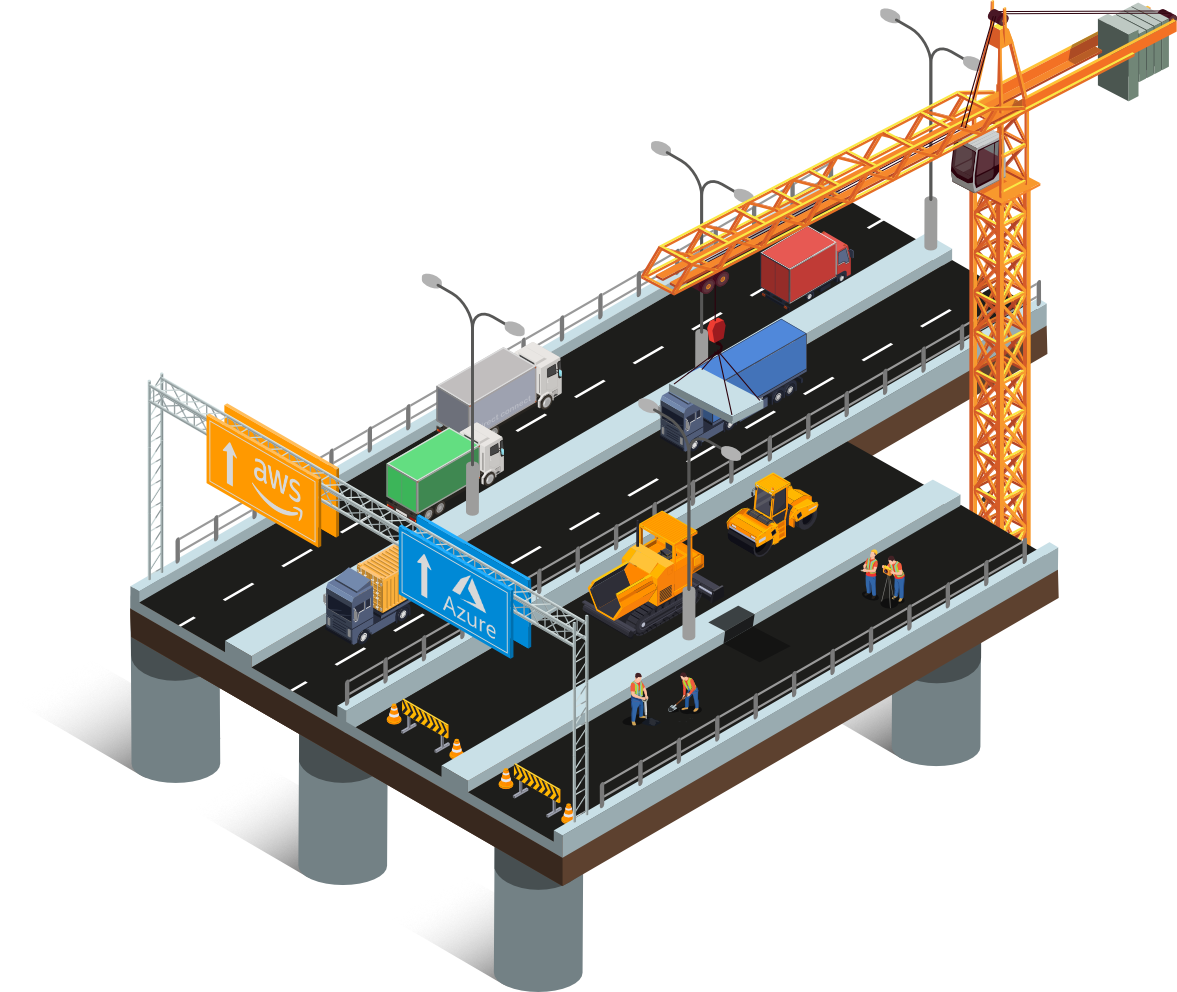
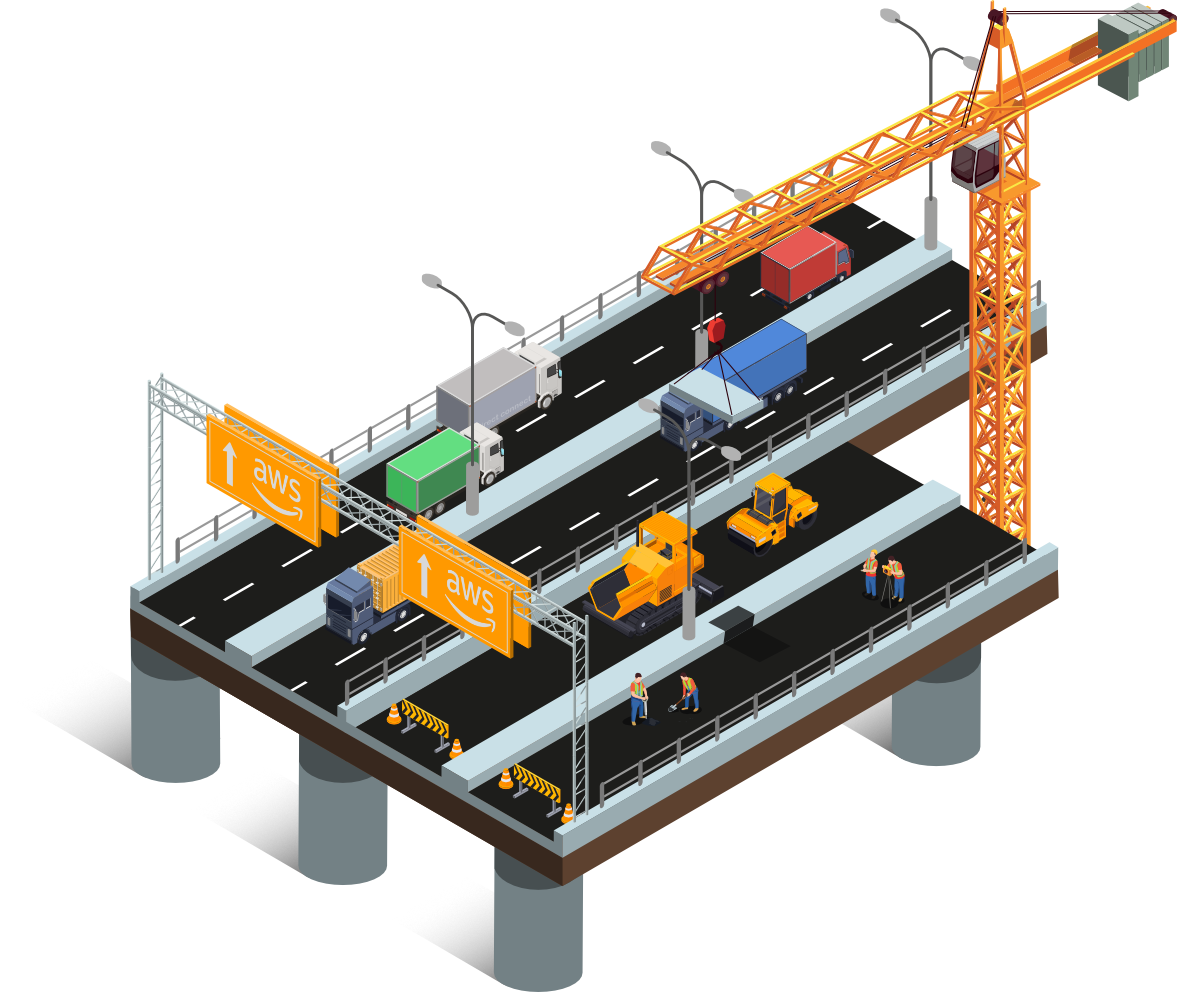
feat: removing obsolete content (#25)
* feat: removing obsolete content and replacing image

Changed region(s): [[0.3364, 0.5, 0.4588, 0.6562]]

diff --git a/themes/vex-hugo/layouts/services/list.html b/themes/vex-hugo/layouts/services/list.html
@@ -104,9 +104,6 @@
           {{ if .title_aws }}
           <h4 class="subheading mt--20 color-aws">{{ $.Page.RenderString .title_aws }}</h4>
           {{ end }}
-          {{ if .title_azure }}
-          <h4 class="subheading mt--20 color-azure">{{ $.Page.RenderString .title_azure }}</h4>
-          {{ end }}
           <p class="md">{{ $.Page.RenderString .content }}</p>
           {{ if .button.enable }}
           {{ with .button }}
@@ -125,9 +122,6 @@
           {{ end }}
           {{ if .title_aws }}
           <h4 class="subheading mt--20 color-aws">{{ $.Page.RenderString .title_aws }}</h4>
-          {{ end }}
-          {{ if .title_azure }}
-          <h4 class="subheading mt--20 color-azure">{{ $.Page.RenderString .title_azure }}</h4>
           {{ end }}
           <p class="md">{{ $.Page.RenderString .content }}</p>
           {{ if .button.enable }}

diff --git a/themes/vex-hugo/layouts/solutions/list.html b/themes/vex-hugo/layouts/solutions/list.html
@@ -88,9 +88,6 @@
                     {{ if .title_aws }}
                     <h4 class="subheading mt--20 color-aws">{{ $.Page.RenderString .title_aws }}</h4>
                     {{ end }}
-                    {{ if .title_azure }}
-                    <h4 class="subheading mt--20 color-azure">{{ $.Page.RenderString .title_azure }}</h4>
-                    {{ end }}
                     <p class="md">{{ $.Page.RenderString .content }}</p>
                     {{ if .button.enable }}
                     {{ with .button }}

diff --git a/themes/vex-hugo/assets/scss/_customize.scss b/themes/vex-hugo/assets/scss/_customize.scss
@@ -121,10 +121,6 @@ textarea.form-control {
     color: #FF9900 !important;
 }
 
-.color-azure {
-    color: #007FFF !important;
-}
-
 // ANCHOR customers, certifications & partners
 .badge-primary {
     background-color: $primary-color !important;

diff --git a/content/deutsch/services/connectivity/_index.md b/content/deutsch/services/connectivity/_index.md
@@ -1,13 +1,13 @@
 ---
 title: "Cloud Connectivity"
-description: "Wir stellen sicher, dass alle Ihre Workloads sicher, skalierbar und zuverlässig mit AWS und Azure verbunden sind."
+description: "Wir stellen sicher, dass alle Ihre Workloads sicher, skalierbar und zuverlässig mit AWS verbunden sind."
 draft: false
 
 banner_section:
     enable: true
     title: "Legen Sie den Grundstein mit einem soliden Netzwerk!"
     content: "Connectivity ist eines der ersten Schlüsselthemen, die es auf der Cloud Journey zu lösen gilt.<br><br>
-              Wir stellen sicher, dass alle Ihre Workloads sicher, skalierbar und zuverlässig mit der AWS und Azure Cloud verbunden sind."
+              Wir stellen sicher, dass alle Ihre Workloads sicher, skalierbar und zuverlässig mit der AWS Cloud verbunden sind."
     image: "images/illustrations/cloud-connectivity.png"
     button:
         enable: true
@@ -20,7 +20,7 @@ tile_section:
     list:
       - title: "Infrastructure as Code"
         enable: true
-        content: "Wir bieten [Terraform](/faq/#iac 'What is Infrastructure as Code?') Module an, die unterschiedliche         Referenzarchitekturen implementieren und zahlreiche Connectivity Anforderungen abdecken.<br><br>
+        content: "Wir bieten [Terraform](/faq/#iac 'What is Infrastructure as Code?') Module an, die unterschiedliche Referenzarchitekturen implementieren und zahlreiche Connectivity Anforderungen abdecken.<br><br>
                   Unsere Module erleichtern das Management Ihrer Cloud Connectivity Lösung, reduzieren Fehlerquellen und verkürzen Ihre Time-To-Market."
 
       - title: "Hybrid Connectivity"
@@ -54,7 +54,6 @@ excerpt_section:
     list:
       - title: false
         title_aws: "AWS Direct Connect"
-        title_azure: "Azure Express Route"
         enable: true
         image: "images/illustrations/cloud-direct-connect.png"
         content: "Es gibt unzählige Stolpersteine bei der Verbindung eines Rechenzentrums mit der Public Cloud.<br>
@@ -62,16 +61,14 @@ excerpt_section:
 
       - title: false
         title_aws: "AWS Transit Gateway"
-        title_azure: "Azure Hub & Spoke"
         enable: true
         image: "images/illustrations/cloud-hub.png"
         content: "Skalierbarkeit ist das Zauberwort bei der Konzeption der Netzarchitektur einer Public Cloud Umgebung.<br>
                   Das Cloud Netzwerk muss dynamisch und schnell skalieren, um mit den schnelllebigen Cloud Workloads mitzuhalten.
-                  Unsere AWS- und Azure-Netzarchitekturen bieten grosse Flexibilität, ohne die Stabilität zu gefährden."
+                  Unsere AWS-Netzarchitekturen bieten grosse Flexibilität, ohne die Stabilität zu gefährden."
 
       - title: false
         title_aws: "AWS Route 53"
-        title_azure: "Azure DNS"
         enable: true
         image: "images/illustrations/cloud-route53.png"
         content: "Eine oft unterschätzte Herausforderung, insbesondere in einer hybriden Umgebung, ist ein gut durchdachtes DNS Konzept<br>
@@ -80,7 +77,6 @@ excerpt_section:
 
       - title: false
         title_aws: "AWS Network Firewall"
-        title_azure: "Azure Firewall"
         enable: true
         image: "images/illustrations/cloud-firewall.png"
         content: "Netzwerk Security ist ein integraler Bestandteil unserer Connectivity Services.<br>

diff --git a/content/english/services/connectivity/_index.md b/content/english/services/connectivity/_index.md
@@ -1,13 +1,13 @@
 ---
 title: "Cloud Connectivity"
-description: "We make sure that all your workloads are seamlessly connected to the AWS and Azure cloud with top-priority on reliability, scalability and security."
+description: "We make sure that all your workloads are seamlessly connected to the AWS cloud with top-priority on reliability, scalability and security."
 draft: false
 
 banner_section:
     enable: true
     title: "First, build a solid network foundation!"
     content: "Connectivity is one of the first key topics which must be tackled to jump-start your cloud journey.<br><br>
-          We make sure that all your workloads are seamlessly connected to the AWS and Azure cloud with top-priority on reliability, scalability and security."
+          We make sure that all your workloads are seamlessly connected to the AWS cloud with top-priority on reliability, scalability and security."
     image: "images/illustrations/cloud-connectivity.png"
     button:
         enable: true
@@ -54,7 +54,6 @@ excerpt_section:
     list:
       - title: false
         title_aws: "AWS Direct Connect"
-        title_azure: "Azure Express Route"
         enable: true
         image: "images/illustrations/cloud-direct-connect.png"
         content: "There are lots of stumbling blocks when connecting an on-premises data center to the public cloud.<br>
@@ -63,16 +62,14 @@ excerpt_section:
 
       - title: false
         title_aws: "AWS Transit Gateway"
-        title_azure: "Azure Hub & Spoke"
         enable: true
         image: "images/illustrations/cloud-hub.png"
         content: "Scalability is the magic word when designing the network in a public cloud environment.<br>
               The cloud network needs to scale fluently and quickly to keep up with rapid growth and to improve time-to-market.
-              Our AWS and Azure network architectures offer great flexibility and are built to last."
+              Our AWS network architectures offer great flexibility and are built to last."
 
       - title: false
         title_aws: "AWS Route 53"
-        title_azure: "Azure DNS"
         enable: true
         image: "images/illustrations/cloud-route53.png"
         content: "One of the main challenges for a successful hybrid cloud environment is a well thought out DNS solution.<br>
@@ -81,7 +78,6 @@ excerpt_section:
 
       - title: false
         title_aws: "AWS Network Firewall"
-        title_azure: "Azure Firewall"
         enable: true
         image: "images/illustrations/cloud-firewall.png"
         content: "Network security is crucial and a main pillar of our connectivity services.<br>

diff --git a/content/deutsch/team/_index.md b/content/deutsch/team/_index.md
@@ -32,7 +32,7 @@ about_us:
       title: "Cloud Network & Automation Specialist"
       content: "Stefano ist unser Public Cloud Networking Powerhouse!
                 Mit jahrelanger Erfahrung im Aufbau von Connectivity-Lösungen und seiner Leidenschaft für Automatisierung ist er weit mehr als ein klassischer Netzwerkspezialist.<br>
-                Er verspeist AWS und Azure Connectivity-Herausforderungen zum Frühstück."
+                Er verspeist AWS Connectivity-Herausforderungen zum Frühstück."
 
     - image: "images/profiles/michael-ullrich.jpg"
       enable: true

diff --git a/content/english/faq/_index.md b/content/english/faq/_index.md
@@ -15,8 +15,7 @@ faq:
 
     - question: "which cloud providers do we support?"
       answer: "We are mainly specialized in secure enterprise deployments on AWS. 
-              Some topics are not specific to a cloud provider so feel free to [get in touch](/contact 'contact form') anyway!<br>
-              For connectivity topics we offer the same services for AWS and Azure."
+              Some topics are not specific to a cloud provider so feel free to [get in touch](/contact 'contact form') anyway!"
       anchor: providers
       enable: true
       

diff --git a/content/english/team/_index.md b/content/english/team/_index.md
@@ -34,7 +34,7 @@ about_us:
       title: "Cloud Network & Automation Specialist"
       content: "Stefano is a public cloud networking powerhouse!
                 With years of experience in building connectivity solutions and his passion for automation he is far more than a classic network specialist.<br>
-                He eats AWS and Azure connectivity challenges for breakfast."
+                He eats AWS connectivity challenges for breakfast."
 
     - image: "images/profiles/michael-ullrich.jpg"
       enable: true
